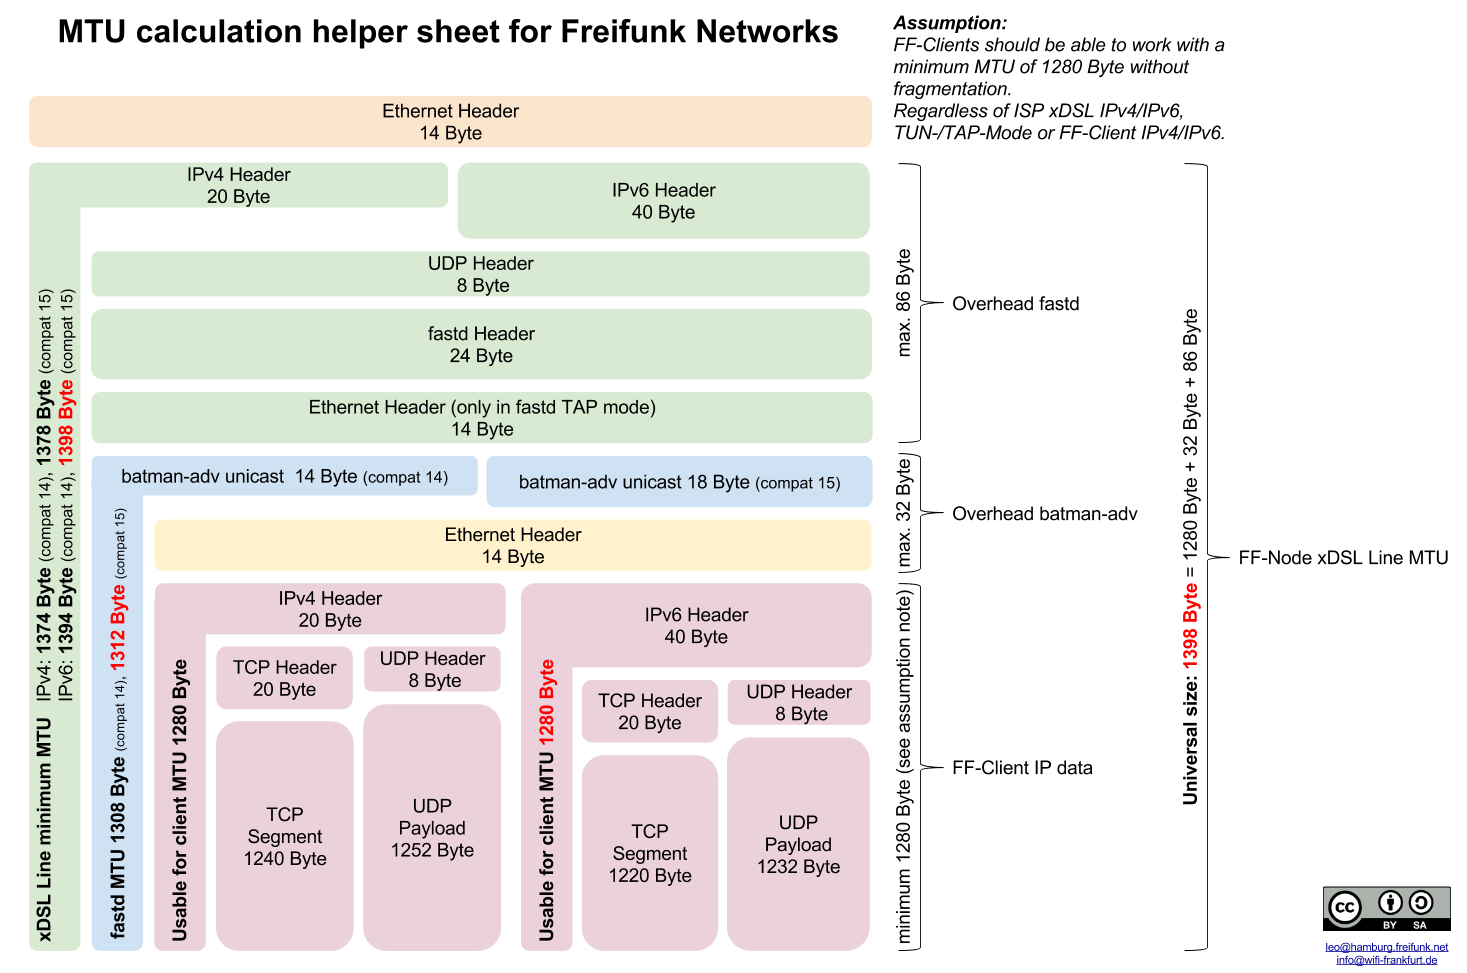
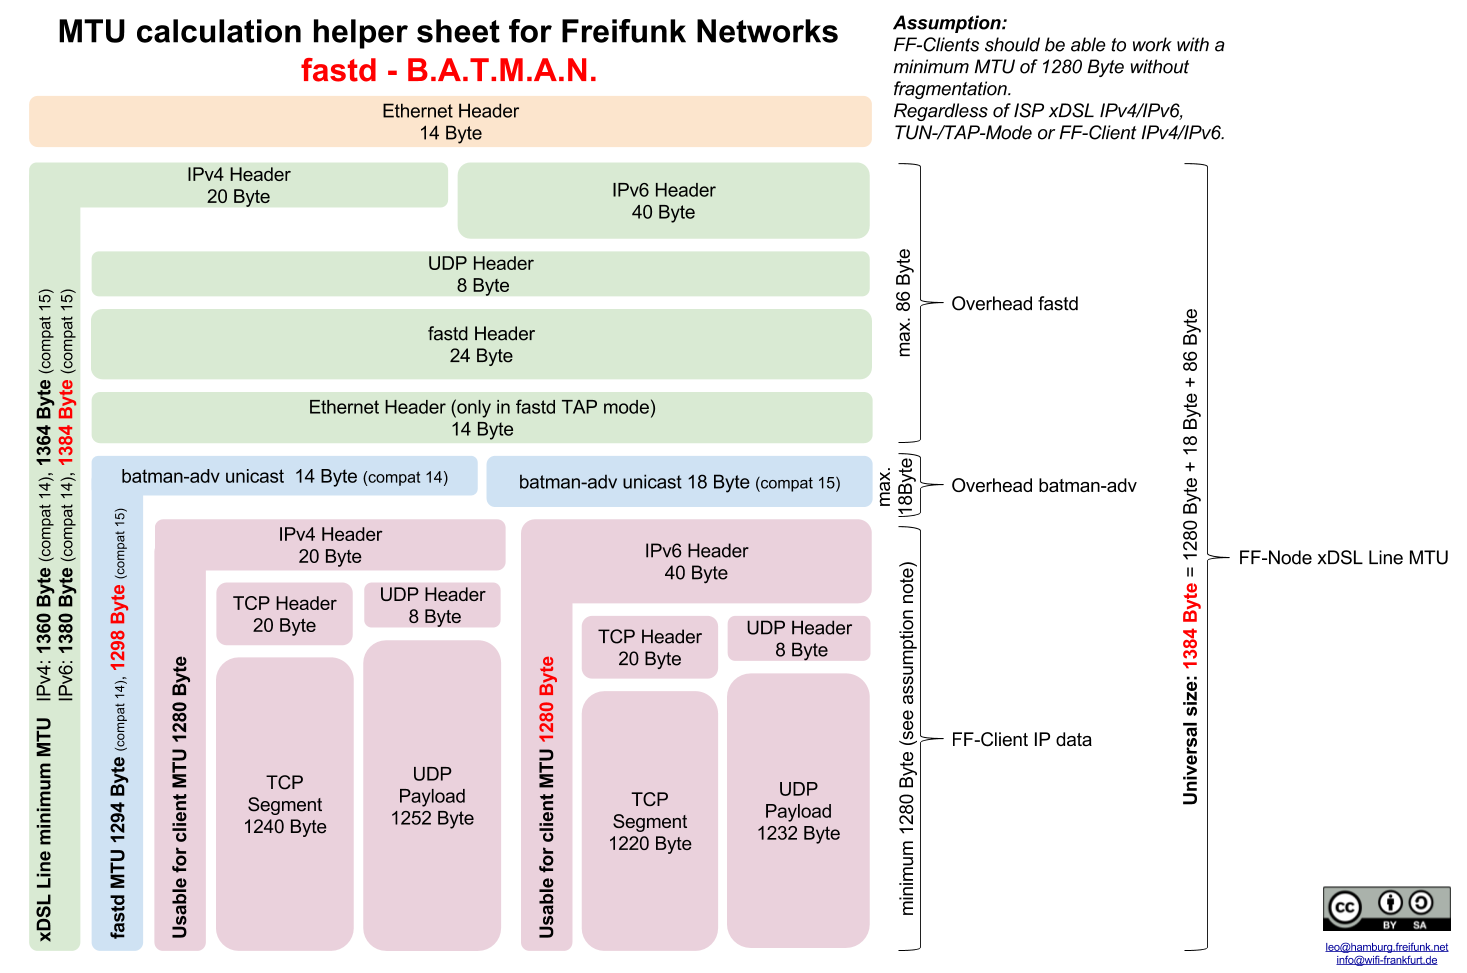
mtu-bildchen upgrade

diff --git a/docs/components.rst b/docs/components.rst
@@ -33,9 +33,12 @@ Nodes, die keine direkte WLAN-Verbindung haben, können über die VPN-Software f
 .. image:: MTU-calculation-helper-sheet-for-Freifunk-Networks.png
  :name: MTU in einem Batman-Netz
 
-TODO: Vergleich MTU-Bild vorher und nachher einfügen
+.. image:: MTU-calculation-helper-sheet-for-Freifunk-Networks_babel.png
+ :name: MTU in einem Babel-Netz
 
-Der Einsatz anderer VPN-Technologien (sogar im Parallelbetrieb zu fastd) ist denkbar. In Frankfurt haben wir uns entschieden nicht zu viele Komponenten gleichzeitig auszutauschen. Fastd hat sich bewährt.
+Die MTU von fastd berechnet den im fastd-Paket liegenden Ethernet-Header nicht mit ein. Bei einer fastd-MTU von 1280 ist damit bereits fragmentierungsfreie IPv6-Kommunikation im Netz und außerhalb möglich.
+
+Der Einsatz anderer VPN-Technologien (sogar im Parallelbetrieb zu fastd) ist denkbar. In Frankfurt haben wir uns entschieden nicht zu viele Komponenten gleichzeitig auszutauschen. Es gibt schnellere Lösungen als fastd, fastd hat sich jedoch bewährt.
 
 babeld
 ------

diff --git a/docs/firmware.rst b/docs/firmware.rst
@@ -66,6 +66,7 @@ Dieses Paket integriert die einzelnen Komponenten mmfd, babeld, die firewall. ba
 
 
 Auf dem Gerät laufen zwei Instanzen von dnsmasq. Eine Instanz dient der Möglichkeit der Namensauflösung für fastd. Per Firewall-Rule wird dem fastd-User erlaubt auf diese dnsmasq-Instanz auf Port 54 zuzugreifen.
+Interfaces, die das mesh-Protokoll ausführen, werden durch das gluon-core Paket automatisch der mesh-Firewall-Zone zugeordnet.
 Die zweite dnsmasq-Instanz dient als dns-Cache für angeschlossene Clients. Hier wird der AAAA-Record "nextnode" in die nextnode-IP-Adresse aufgelöst.
 
 gluon-client-bridge-babel
